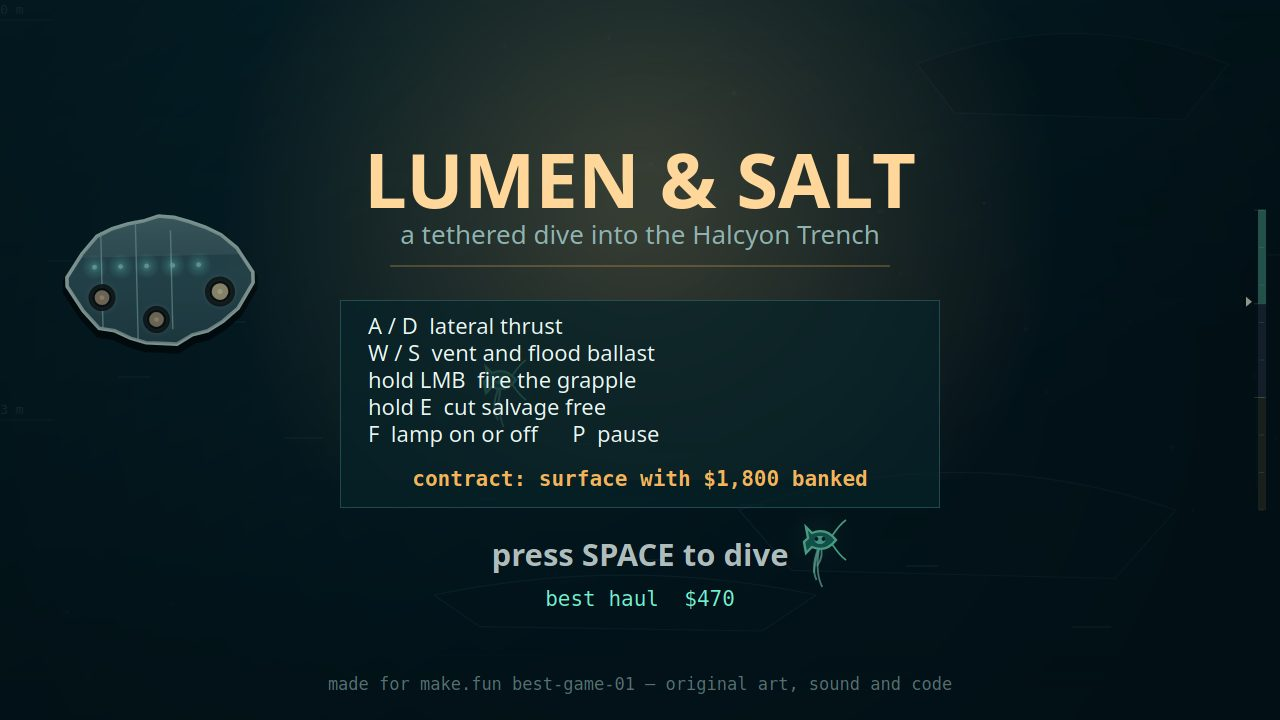
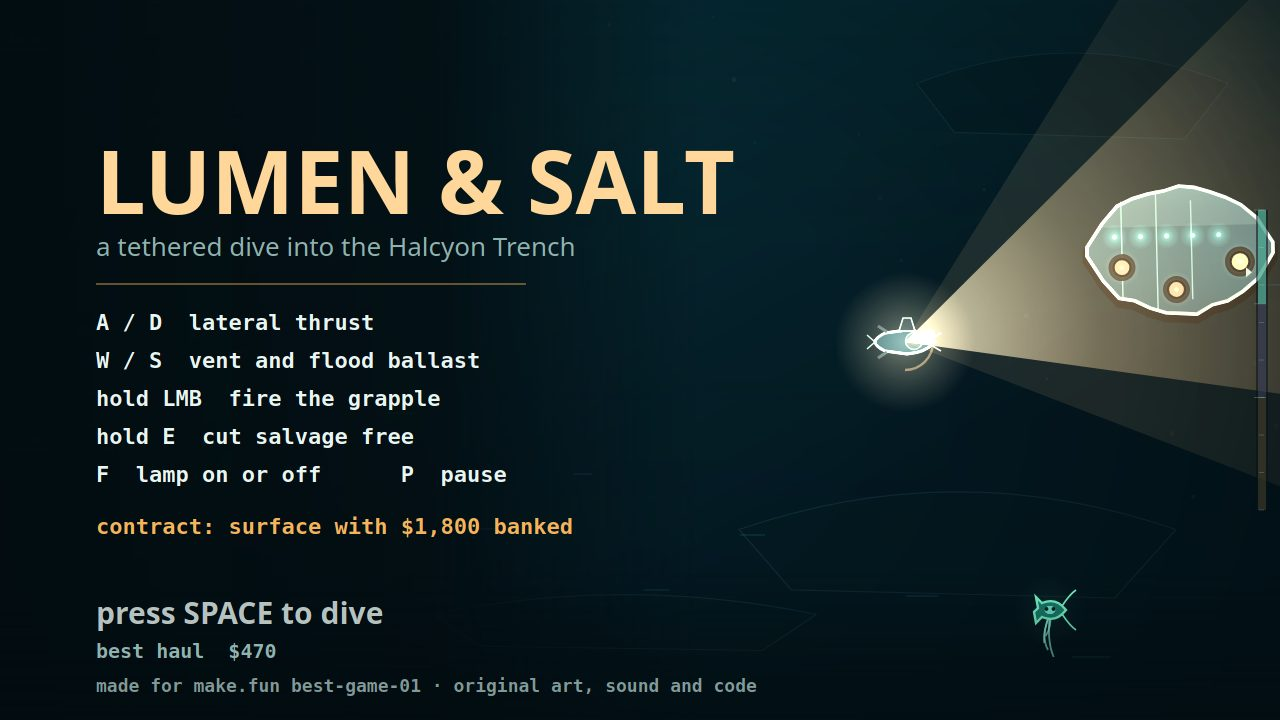
title screen: live trench scene behind the card, larger control list and credit

diff --git a/game/src/screens.js b/game/src/screens.js
@@ -34,43 +34,63 @@ function centred(ctx, text, x, y, font, colour, alpha = 1) {
 }
 
 export function drawTitle(ctx, world, view) {
-  // Darken the live scene behind the title, then lay the wordmark over it.
-  ctx.fillStyle = 'rgba(2, 14, 18, 0.42)';
-  ctx.fillRect(0, 0, VIEW.width, VIEW.height);
+  // The title is a live frame: the renderer has already drawn the trench, the diver holding
+  // station and its sweeping lamp. A scrim over the left half carries the type and leaves the
+  // right half to the scene, so the card sells the dive instead of describing it.
+  const scrim = ctx.createLinearGradient(0, 0, 700, 0);
+  scrim.addColorStop(0, 'rgba(2, 12, 16, 0.94)');
+  scrim.addColorStop(0.62, 'rgba(2, 12, 16, 0.82)');
+  scrim.addColorStop(1, 'rgba(2, 12, 16, 0)');
+  ctx.fillStyle = scrim;
+  ctx.fillRect(0, 0, 700, VIEW.height);
+  const floor = ctx.createLinearGradient(0, VIEW.height - 150, 0, VIEW.height);
+  floor.addColorStop(0, 'rgba(2, 12, 16, 0)');
+  floor.addColorStop(1, 'rgba(2, 12, 16, 0.72)');
+  ctx.fillStyle = floor;
+  ctx.fillRect(0, VIEW.height - 150, VIEW.width, 150);
 
-  const glow = ctx.createRadialGradient(VIEW.width / 2, 196, 30, VIEW.width / 2, 220, 420);
-  glow.addColorStop(0, 'rgba(255, 196, 120, 0.20)');
-  glow.addColorStop(1, 'rgba(255, 176, 96, 0)');
-  ctx.fillStyle = glow;
-  ctx.fillRect(0, 0, VIEW.width, 480);
+  const left = 96;
+  ctx.textAlign = 'left';
+  ctx.fillStyle = PALETTE.amberHot;
+  ctx.font = 'bold 88px "Trebuchet MS", system-ui, sans-serif';
+  ctx.fillText(TEXT.title, left, 214);
 
-  centred(ctx, TEXT.title, VIEW.width / 2, 208, 'bold 76px "Trebuchet MS", system-ui, sans-serif', PALETTE.amberHot);
-  centred(ctx, TEXT.subtitle, VIEW.width / 2, 244, '26px "Trebuchet MS", system-ui, sans-serif', PALETTE.muted);
-  ctx.strokeStyle = 'rgba(246, 180, 90, 0.5)';
-  ctx.lineWidth = 1;
+  ctx.fillStyle = PALETTE.muted;
+  ctx.font = '26px "Trebuchet MS", system-ui, sans-serif';
+  ctx.fillText(TEXT.subtitle, left, 256);
+
+  ctx.strokeStyle = 'rgba(246, 180, 90, 0.55)';
+  ctx.lineWidth = 1.4;
   ctx.beginPath();
-  ctx.moveTo(VIEW.width / 2 - 250, 266);
-  ctx.lineTo(VIEW.width / 2 + 250, 266);
+  ctx.moveTo(left, 284);
+  ctx.lineTo(left + 430, 284);
   ctx.stroke();
 
-  panel(ctx, VIEW.width / 2 - 300, 300, 600, 208, 0.72);
-  ctx.textAlign = 'left';
   ctx.fillStyle = PALETTE.text;
-  ctx.font = '22px "Trebuchet MS", system-ui, sans-serif';
+  ctx.font = 'bold 22px "Consolas", monospace';
   TEXT.controls.forEach((line, index) => {
-    ctx.fillText(line, VIEW.width / 2 - 272, 334 + index * 27);
+    ctx.fillText(line, left, 330 + index * 38);
   });
+
   ctx.fillStyle = PALETTE.amber;
-  ctx.font = 'bold 21px "Consolas", monospace';
-  ctx.textAlign = 'center';
-  ctx.fillText(TEXT.contract, VIEW.width / 2, 486);
+  ctx.font = 'bold 22px "Consolas", monospace';
+  ctx.fillText(TEXT.contract, left, 330 + TEXT.controls.length * 38 + 14);
 
   const pulse = 0.55 + 0.45 * Math.sin(view.time * 3.4);
-  centred(ctx, TEXT.start, VIEW.width / 2, 566, 'bold 31px "Trebuchet MS", system-ui, sans-serif', PALETTE.text, 0.5 + pulse * 0.5);
+  ctx.globalAlpha = 0.55 + pulse * 0.45;
+  ctx.fillStyle = PALETTE.text;
+  ctx.font = 'bold 30px "Trebuchet MS", system-ui, sans-serif';
+  ctx.fillText(TEXT.start, left, VIEW.height - 96);
+  ctx.globalAlpha = 1;
   if (view.best > 0) {
-    centred(ctx, `best haul  $${view.best}`, VIEW.width / 2, 606, '21px "Consolas", monospace', PALETTE.bio);
+    ctx.fillStyle = PALETTE.muted;
+    ctx.font = 'bold 20px "Consolas", monospace';
+    ctx.fillText(`best haul  $${view.best}`, left, VIEW.height - 62);
   }
-  centred(ctx, 'made for make.fun best-game-01 — original art, sound and code', VIEW.width / 2, VIEW.height - 30, '17px "Consolas", monospace', 'rgba(143, 179, 176, 0.6)');
+
+  ctx.fillStyle = 'rgba(180, 210, 206, 0.72)';
+  ctx.font = 'bold 18px "Consolas", monospace';
+  ctx.fillText('made for make.fun best-game-01 · original art, sound and code', left, VIEW.height - 28);
 }
 
 export function drawBriefing(ctx, world, view) {

diff --git a/game/src/shots.js b/game/src/shots.js
@@ -61,19 +61,21 @@ export function stageShot(name, world) {
   const player = world.player;
 
   if (name === 'title') {
-    // A quiet deep backdrop behind the title: wrecks and lures drifting, no diver on screen.
+    // The title is a live scene, not a card: the diver holds station in the right half with the
+    // lamp on, a wreck hangs a little above and beyond, and the water keeps drifting.
     world.wrecks = [];
     world.lures = [];
-    world.spawnWreckAt(420, 1460, 2);
-    world.spawnWreckAt(1170, 1980, 1);
-    world.spawnLureAt(760, 1560);
-    world.spawnLureAt(1080, 1720);
-    place(world, 1800, 2200, 1600, 2100);
-    world.toggleLamp();
-    for (let index = 0; index < 180; index += 1) world.particles.step(1 / 60, 700, 1500, 60);
+    const wreck = world.spawnWreckAt(1310, 1400, 2);
+    world.spawnWreckAt(1620, 1900, 1);
+    world.spawnLureAt(1180, 1760).awake = 0;
+    place(world, 1035, 1492, 1310, 1400);
+    if (!world.player.lampOn) world.toggleLamp();
+    for (let index = 0; index < 180; index += 1) world.particles.step(1 / 60, 900, 1480, 60);
     world.player.oxygen = world.player.oxygenMax * 0.72;
     world.player.hull = 84;
-    return { screen: SCREEN_TITLE, camera: { x: 260, y: 1180 }, best: 470, reason: null };
+    world.hook.state = 'idle';
+    wreck.collapseTimer = 999;
+    return { screen: SCREEN_TITLE, camera: { x: 130, y: 1150 }, best: 470, reason: null };
   }
 
   if (name === 'over') {

diff --git a/game/src/main.js b/game/src/main.js
@@ -265,6 +265,10 @@ function runGame() {
     uiTime += dt;
     if (screen === SCREEN_TITLE) {
       world.idle(dt);
+      // The title lamp stays on and sweeps across the wreck. It is a pure function of the UI
+      // clock: no random draws, no simulation state, so a dive started from here is unaffected.
+      world.player.lampOn = true;
+      world.player.aim = -0.1 + Math.sin(uiTime * 0.42) * 0.26;
       return;
     }
     if (screen !== SCREEN_PLAY) return;
@@ -456,6 +460,21 @@ function runGame() {
       best,
       offers: world.offers.map((offer) => offer.id),
     }),
+    bench: (frames = 180) => {
+      const view = {
+        screen,
+        camera: screen === SCREEN_TITLE ? renderer.camera(world) : camera,
+        time: screen === SCREEN_TITLE ? uiTime : world.time,
+        best,
+        reason: deathReason,
+        muted,
+        newBest,
+        intro: introTimer,
+      };
+      const start = performance.now();
+      for (let index = 0; index < frames; index += 1) paint(view);
+      return (performance.now() - start) / frames;
+    },
     advance: (seconds) => {
       handleActions(input.takeActions());
       const steps = Math.max(1, Math.round(seconds / STEP));
